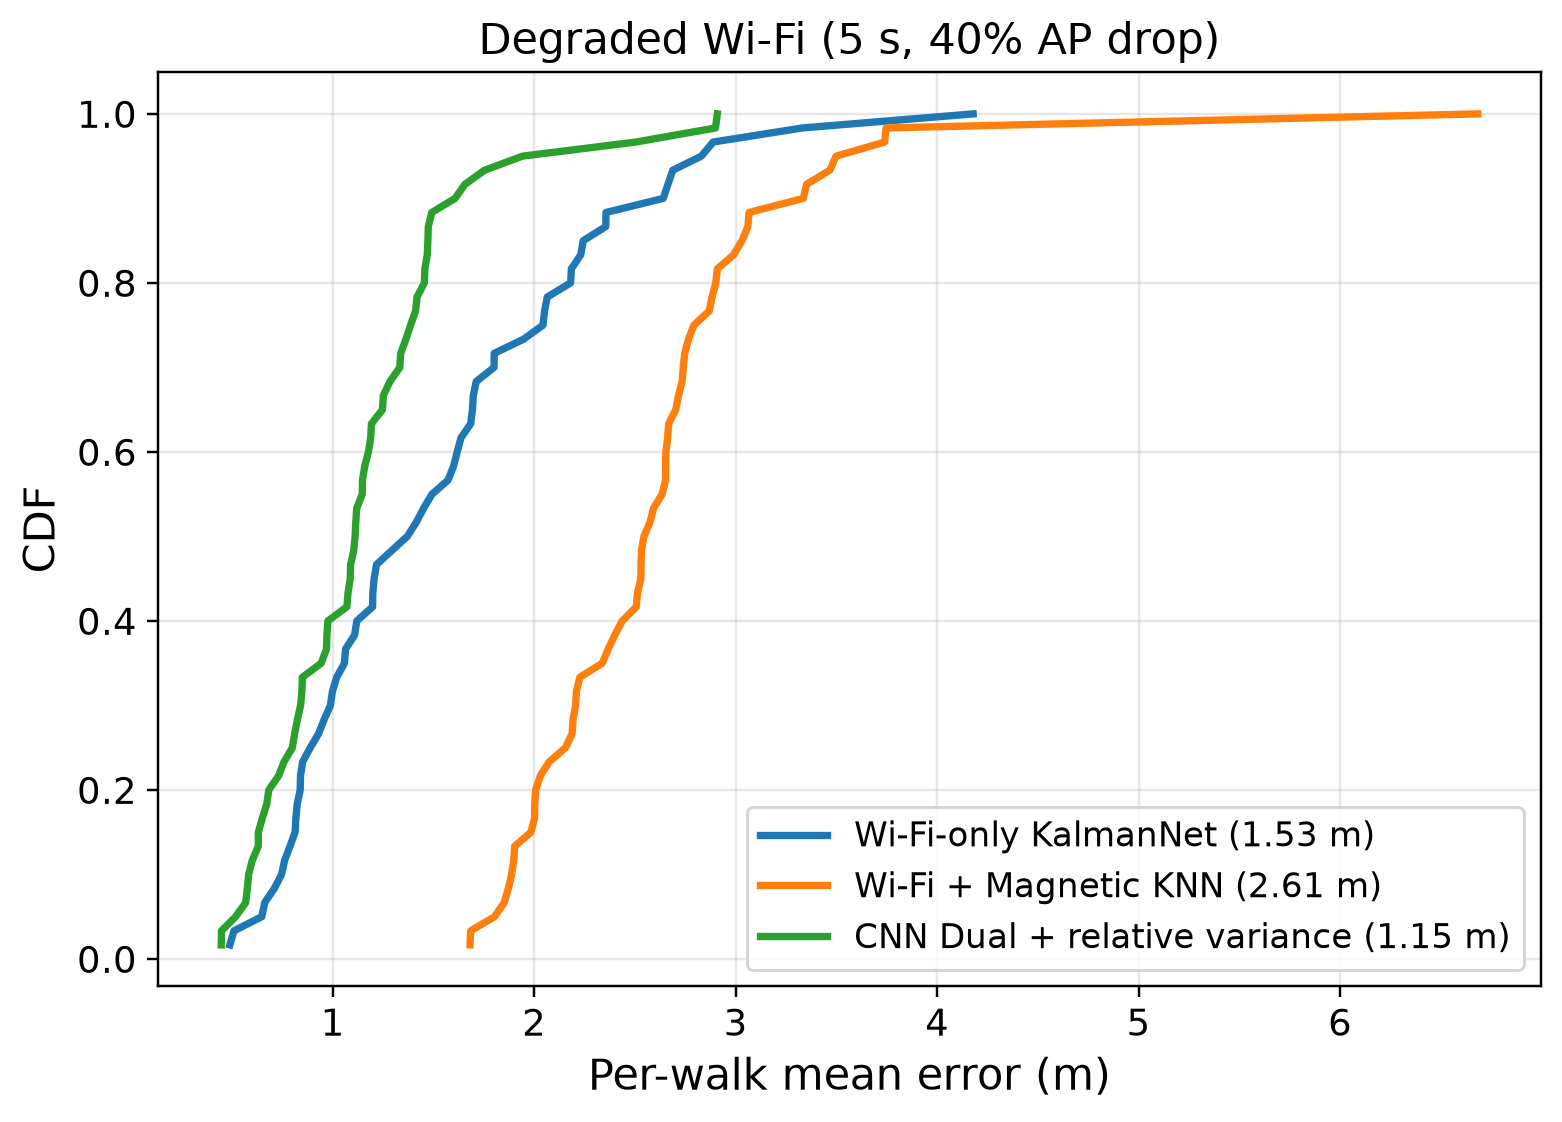
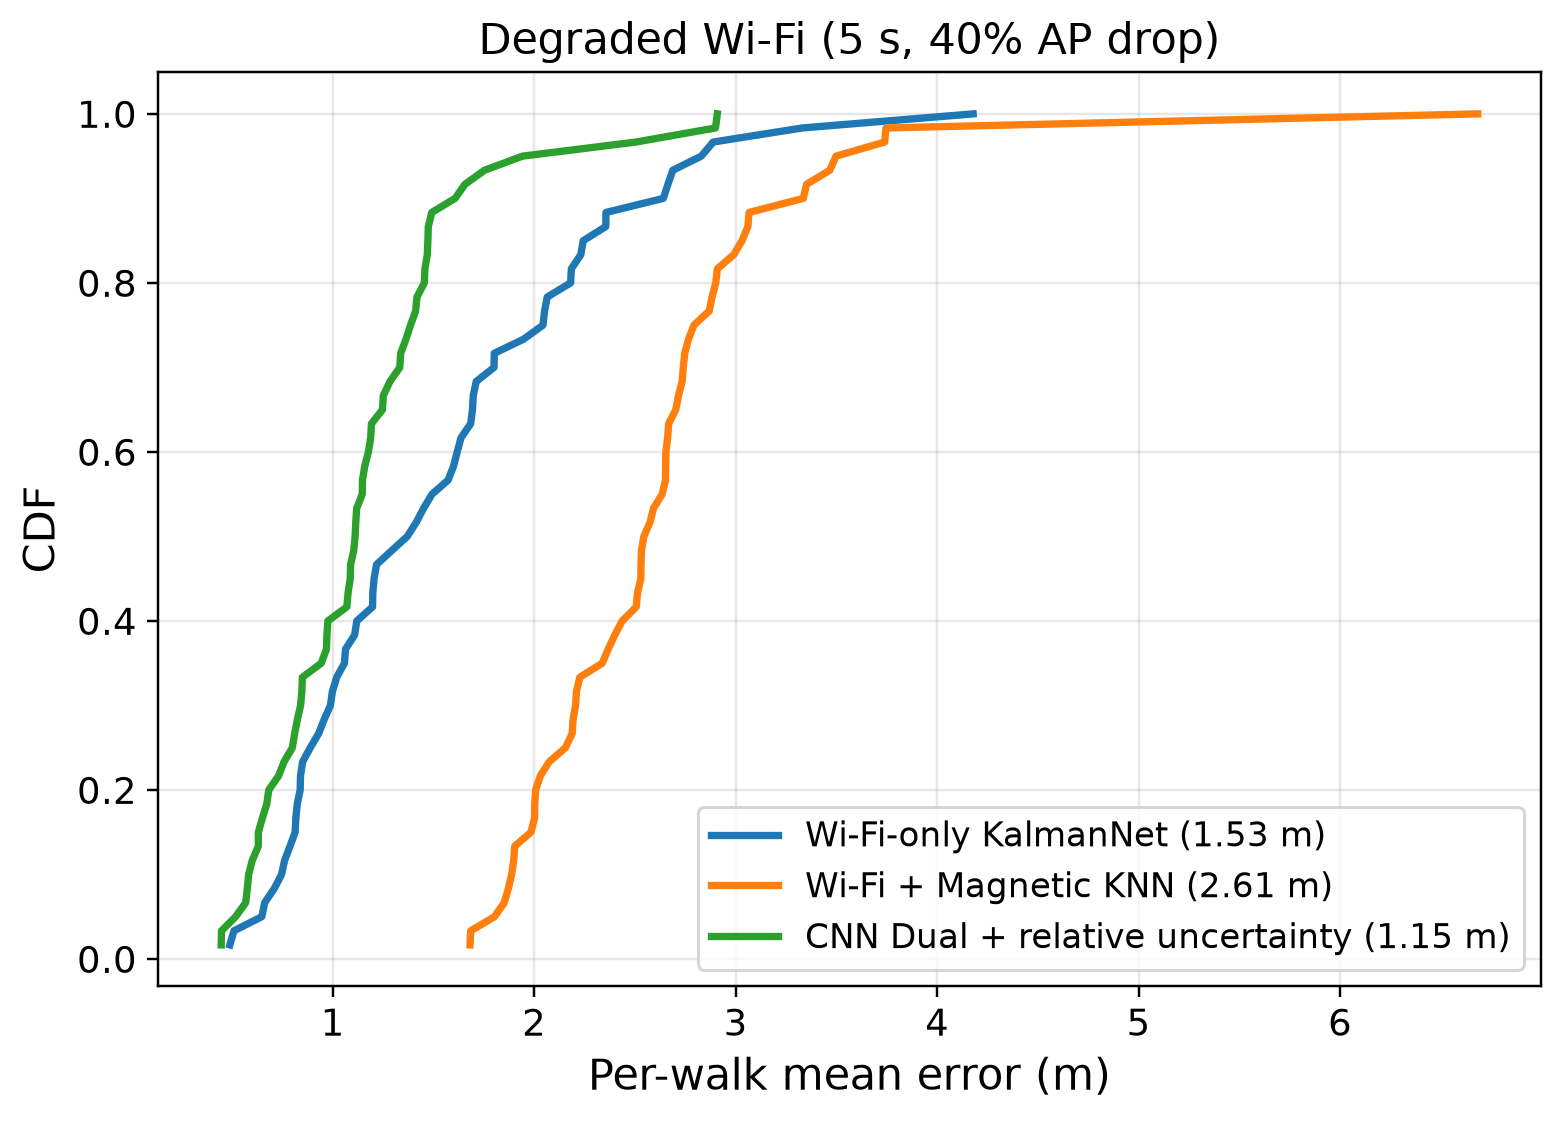
paper: align magnetic uncertainty terminology in figures

Changed region(s): [[0.4302, 0.7175, 0.8912, 0.8422]]

diff --git a/benchmarks/knn/wifi_mag_knn.py b/benchmarks/knn/wifi_mag_knn.py
@@ -10,7 +10,7 @@ Two protocols are intentionally kept separate:
 
 2. ``trajectory``: a non-temporal KNN fusion baseline on the exact synthetic
    250-train/60-test walk protocol used by the current KalmanNet experiment.
-   Its inputs are the current Wi-Fi heatmap fix, magnetic-CNN fix/log-variance,
+   Its inputs are the current Wi-Fi heatmap fix, magnetic-CNN fix/log-uncertainty score,
    and availability masks. It never sees PDR motion or recurrent history.
 
 The trajectory protocol is the one that can be overlaid fairly with the current
@@ -407,7 +407,7 @@ def _plot_trajectory_cdf(
     for label, values in (
         ("Wi-Fi-only KalmanNet", baseline_errors),
         ("Wi-Fi + Magnetic KNN", knn_errors),
-        ("CNN Dual + relative variance", dual_errors),
+        ("CNN Dual + relative uncertainty", dual_errors),
     ):
         ordered = np.sort(values)
         cdf = np.arange(1, len(ordered) + 1) / len(ordered)
@@ -494,7 +494,7 @@ def _plot_representative_trajectory(
             label="PDR only", zorder=2)
     ax.plot(wifi[:, 0], wifi[:, 1], linewidth=2.2, label="Wi-Fi-only KalmanNet", zorder=3)
     ax.plot(dual[:, 0], dual[:, 1], linewidth=2.5,
-            label="CNN Dual + relative variance", zorder=4)
+            label="CNN Dual + relative uncertainty", zorder=4)
     ax.scatter(
         truth[wifi_updates, 0], truth[wifi_updates, 1],
         s=28, facecolors="none", edgecolors="0.25", linewidths=1.0,
